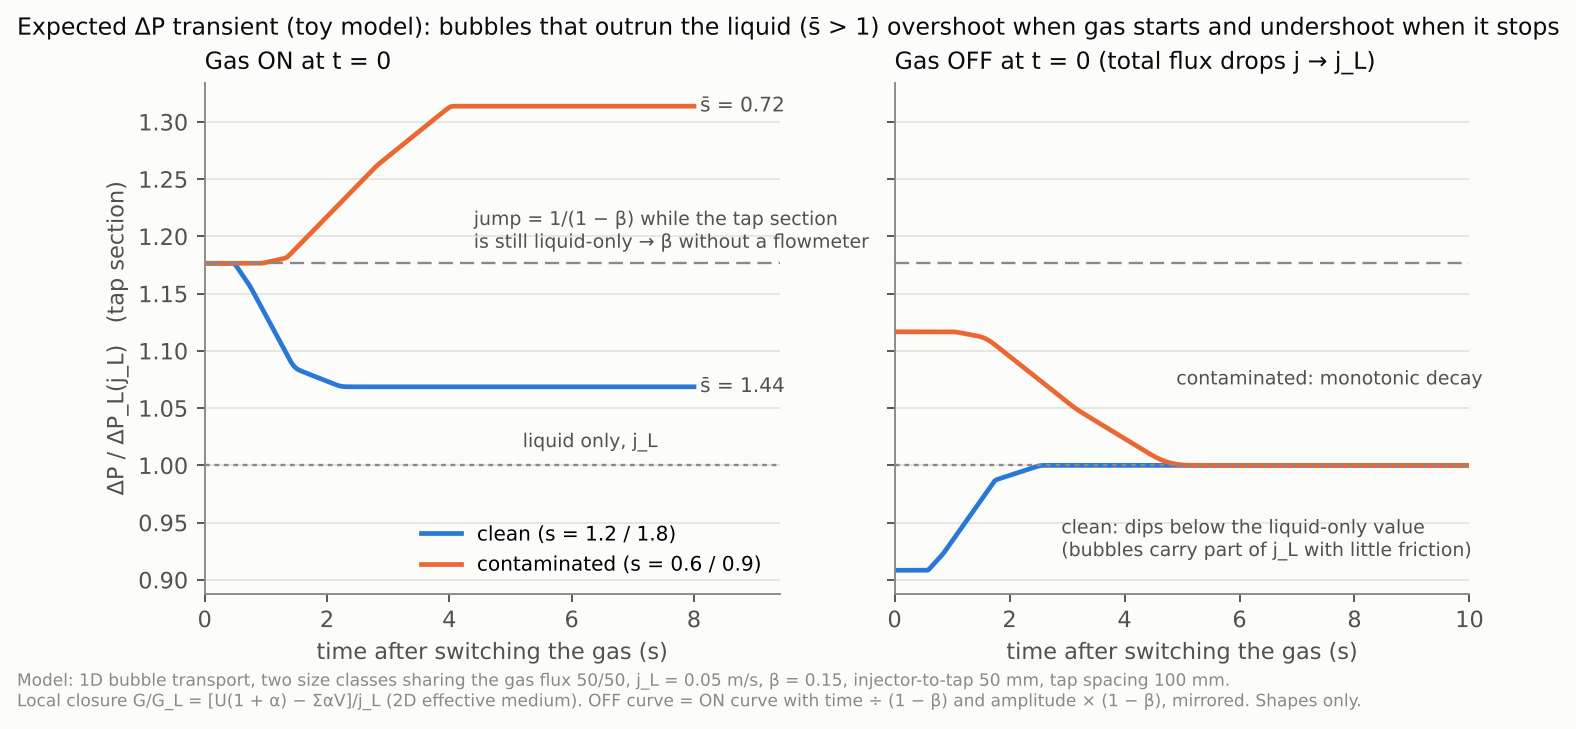
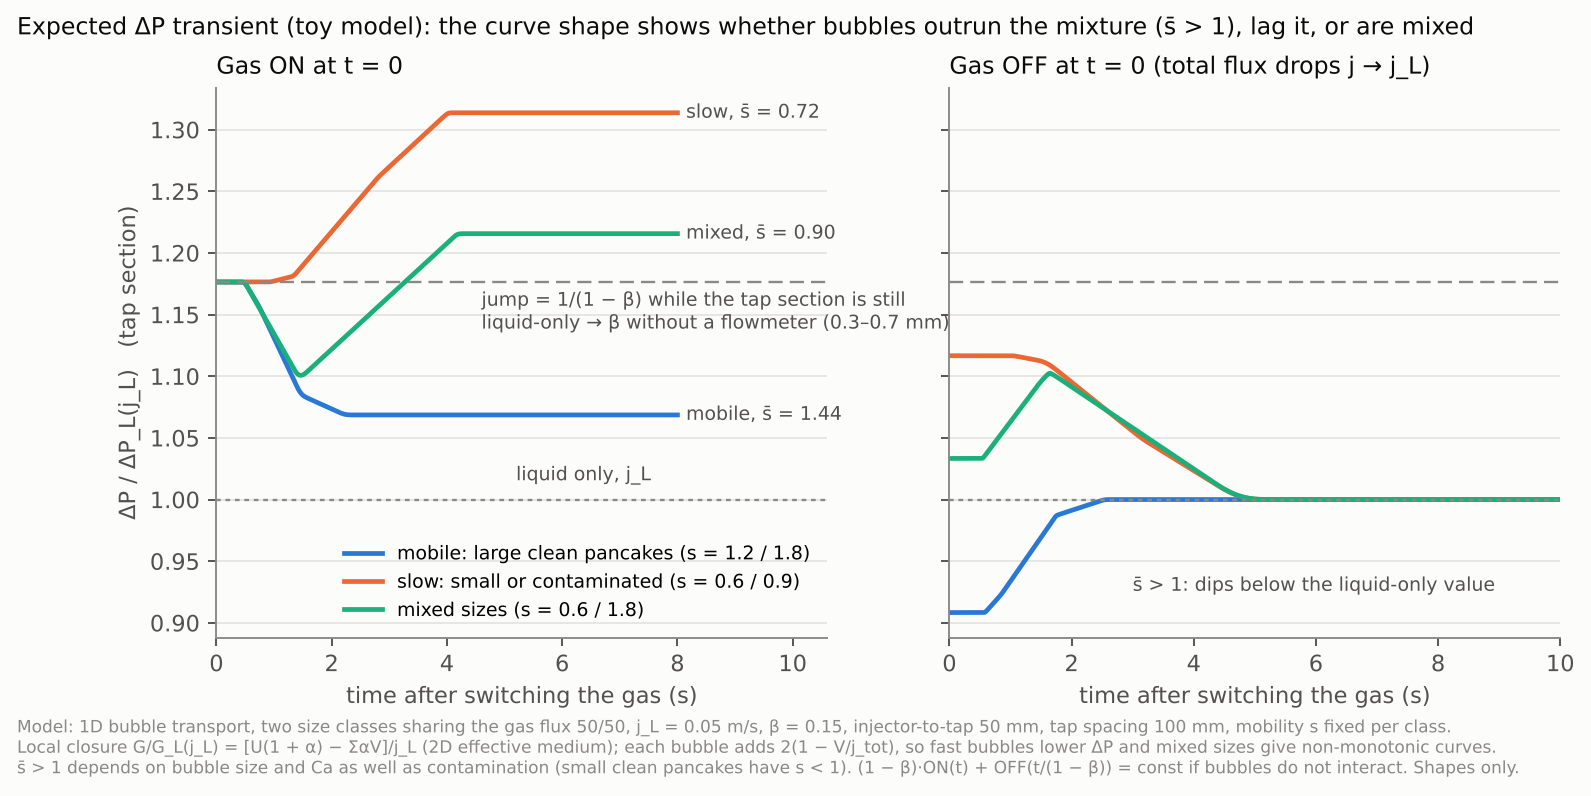
docs: 그림 r6 정정 — 라벨을 오염 대신 이동도(s̄ > 1 / < 1)로, 크기가 섞인 경우의 비단조 곡선 추가, 기포 기여 2(1 − V/j_tot)·거울상 식 명시
Claude-Session: https://claude.ai/code/session_01QFVWo3BPZ98Eh7jXYmYxkN

diff --git a/docs/research/fig/src/fig_step_response.py b/docs/research/fig/src/fig_step_response.py
@@ -13,7 +13,7 @@ import matplotlib
 matplotlib.use("Agg")
 import matplotlib.pyplot as plt
 
-S1, S2 = "#2a78d6", "#eb6834"
+S1, S2, S3 = "#2a78d6", "#eb6834", "#1baf7a"
 INK, INK2, MUTED, GRID, SURF = "#0b0b0b", "#52514e", "#8a8986", "#e6e5e1", "#fcfcfb"
 plt.rcParams.update({"font.family": "DejaVu Sans", "font.size": 9.5, "axes.edgecolor": MUTED,
                      "axes.labelcolor": INK2, "xtick.color": INK2, "ytick.color": INK2,
@@ -25,8 +25,10 @@ J = J_L / (1 - BETA)
 J_G = J - J_L
 X1, L = 0.05, 0.10                # 주입부 → 첫 탭 (m), 탭 간격 (m)
 G_SPLIT = np.array([0.5, 0.5])    # 기체 유량을 나눠 갖는 비율 (작은 기포, 큰 기포)
-CASES = {"clean (s = 1.2 / 1.8)": np.array([1.2, 1.8]),
-         "contaminated (s = 0.6 / 0.9)": np.array([0.6, 0.9])}
+CASES = {"mobile: large clean pancakes (s = 1.2 / 1.8)": np.array([1.2, 1.8]),
+         "slow: small or contaminated (s = 0.6 / 0.9)": np.array([0.6, 0.9]),
+         "mixed sizes (s = 0.6 / 1.8)": np.array([0.6, 1.8])}
+SHORT = {"mobile": "mobile", "slow": "slow", "mixed": "mixed"}
 
 N = 1700
 x = np.linspace(0, X1 + L + 0.02, N + 1)
@@ -68,18 +70,19 @@ def steady(s):
     return ak, a, e
 
 
-fig, axs = plt.subplots(1, 2, figsize=(9.6, 3.9), sharey=True)
+fig, axs = plt.subplots(1, 2, figsize=(10.2, 4.2), sharey=True)
 results = {}
-for (name, s), col in zip(CASES.items(), (S1, S2)):
+for (name, s), col in zip(CASES.items(), (S1, S2, S3)):
     al0 = np.zeros((2, N))
     t_on, dp_on, al_ss = run(s, al0, J, G_SPLIT * J_G, 8.0)
     t_off, dp_off, _ = run(s, al_ss, J_L, np.zeros(2), 10.0)
     ak, a, e = steady(s)
     sbar = (ak * s).sum() / a
-    results[name] = (a, e, sbar, dp_on.max(), dp_on[-1])
+    results[name] = (a, e, sbar, dp_on.max(), dp_on.min(), dp_on[-1], dp_off.max(), dp_off.min())
+    short = name.split(":")[0].split(" ")[0]
     for ax, t, dp in ((axs[0], t_on, dp_on), (axs[1], t_off, dp_off)):
         ax.plot(t, dp, color=col, lw=2, label=name)
-    axs[0].text(8.1, dp_on[-1], f"s̄ = {sbar:.2f}", color=INK2, fontsize=8.5, va="center")
+    axs[0].text(8.15, dp_on[-1], f"{short}, s\u0304 = {sbar:.2f}", color=INK2, fontsize=8, va="center")
 
 for ax in axs:
     ax.axhline(1, color=MUTED, lw=1, ls=(0, (2, 2)))
@@ -87,23 +90,23 @@ for ax in axs:
     ax.grid(axis="y", color=GRID, lw=0.8)
     ax.set_axisbelow(True)
     ax.set_xlabel("time after switching the gas (s)")
-axs[0].text(4.4, 1 / (1 - BETA) + 0.008, "jump = 1/(1 − β) while the tap section\nis still liquid-only → β without a flowmeter",
-            fontsize=8, color=INK2, va="bottom")
-axs[1].text(2.9, 0.935, "clean: dips below the liquid-only value\n(bubbles carry part of j_L with little friction)", fontsize=8, color=INK2, va="center")
-axs[1].text(4.9, 1.075, "contaminated: monotonic decay", fontsize=8, color=INK2, va="center")
+axs[0].text(4.6, 1 / (1 - BETA) - 0.006, "jump = 1/(1 \u2212 \u03b2) while the tap section is still\nliquid-only \u2192 \u03b2 without a flowmeter (0.3\u20130.7 mm)",
+            fontsize=8, color=INK2, va="top")
 axs[0].text(5.2, 1.0 + 0.012, "liquid only, j_L", fontsize=8, color=INK2, va="bottom")
+axs[1].text(3.0, 0.93, "s\u0304 > 1: dips below the liquid-only value", fontsize=8, color=INK2, va="center")
 axs[0].set_title("Gas ON at t = 0", fontsize=10, color=INK, loc="left")
-axs[1].set_title("Gas OFF at t = 0 (total flux drops j → j_L)", fontsize=10, color=INK, loc="left")
-axs[0].set_ylabel("ΔP / ΔP_L(j_L)   (tap section)")
-axs[0].set_xlim(0, 9.4)
+axs[1].set_title("Gas OFF at t = 0 (total flux drops j \u2192 j_L)", fontsize=10, color=INK, loc="left")
+axs[0].set_ylabel("\u0394P / \u0394P_L(j_L)   (tap section)")
+axs[0].set_xlim(0, 10.6)
 axs[1].set_xlim(0, 10)
-axs[0].legend(frameon=False, fontsize=8.5, loc="lower right")
-fig.suptitle("Expected ΔP transient (toy model): bubbles that outrun the liquid (s̄ > 1) overshoot when gas starts and undershoot when it stops",
+axs[0].legend(frameon=False, fontsize=8, loc="lower right")
+fig.suptitle("Expected \u0394P transient (toy model): the curve shape shows whether bubbles outrun the mixture (s\u0304 > 1), lag it, or are mixed",
              fontsize=10, color=INK, x=0.01, ha="left")
-fig.text(0.01, -0.06, f"Model: 1D bubble transport, two size classes sharing the gas flux 50/50, j_L = {J_L} m/s, β = {BETA}, injector-to-tap {X1*1000:.0f} mm, tap spacing {L*1000:.0f} mm.\n"
-         "Local closure G/G_L = [U(1 + α) − ΣαV]/j_L (2D effective medium). OFF curve = ON curve with time ÷ (1 − β) and amplitude × (1 − β), mirrored. Shapes only.",
+fig.text(0.01, -0.08, f"Model: 1D bubble transport, two size classes sharing the gas flux 50/50, j_L = {J_L} m/s, \u03b2 = {BETA}, injector-to-tap {X1*1000:.0f} mm, tap spacing {L*1000:.0f} mm, mobility s fixed per class.\n"
+         "Local closure G/G_L(j_L) = [U(1 + \u03b1) \u2212 \u03a3\u03b1V]/j_L (2D effective medium); each bubble adds 2(1 \u2212 V/j_tot), so fast bubbles lower \u0394P and mixed sizes give non-monotonic curves.\n"
+         "s\u0304 > 1 depends on bubble size and Ca as well as contamination (small clean pancakes have s < 1). (1 \u2212 \u03b2)\u00b7ON(t) + OFF(t/(1 \u2212 \u03b2)) = const if bubbles do not interact. Shapes only.",
          fontsize=7.2, color=MUTED)
 fig.savefig("/home/user/bubbles/docs/research/fig/fig_r6_step_response.png", dpi=170, bbox_inches="tight")
 plt.close(fig)
-for k, (a, e, sbar, mx, ss) in results.items():
-    print(f"{k}: alpha {a:.3f}, E {e:.3f}, sbar {sbar:.2f}, steady 1+E {1+e:.3f}, sim end {ss:.3f}, max {mx:.3f}, jump {1/(1-BETA):.3f}")
+for k, (a, e, sbar, mx, mn, ss, offmx, offmn) in results.items():
+    print(f"{k}: alpha {a:.3f}, E {e:.3f}, sbar {sbar:.2f}, steady 1+E {1+e:.3f}, ON min {mn:.3f} max {mx:.3f} end {ss:.3f}, OFF min {offmn:.3f} max {offmx:.3f}, jump {1/(1-BETA):.3f}")
